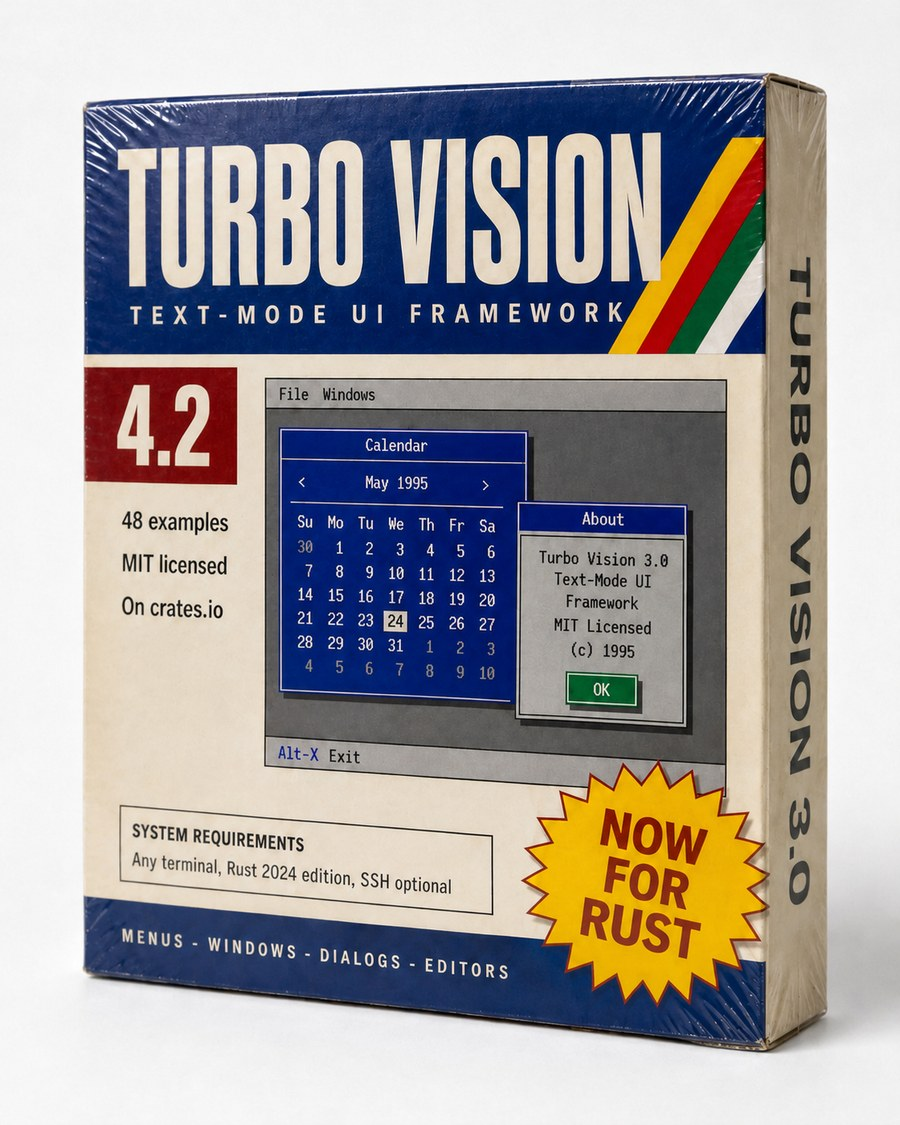
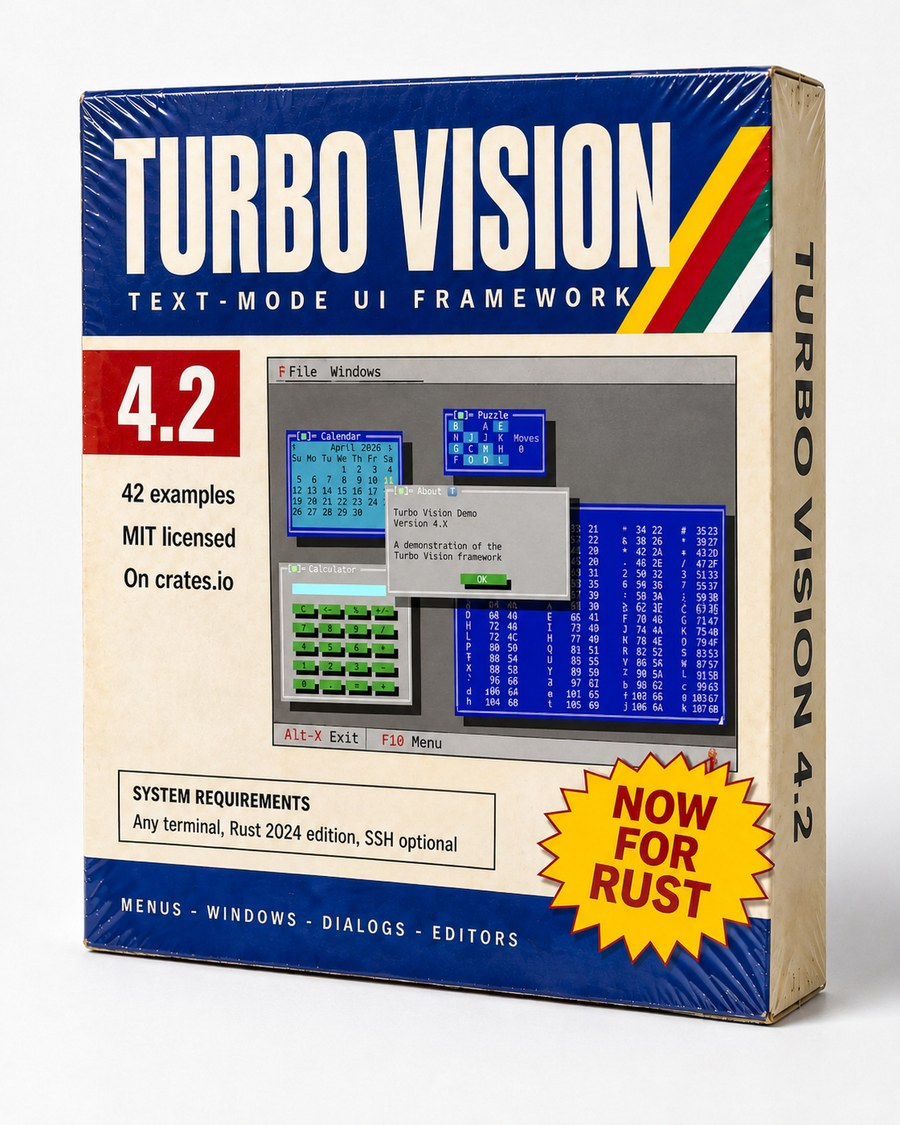
docs(website): a box with 4.2 on the front and spine, and the right example count

diff --git a/website/docs/index.md b/website/docs/index.md
@@ -23,7 +23,7 @@ validators, editors and palettes, drawn in a terminal, on a desktop that still l
      srcset="assets/box-4-2.jpg 900w, assets/box-4-2@2x.jpg 1122w"
      sizes="(max-width: 76em) 20rem, 24rem"
      width="740" height="925" loading="eager" decoding="async"
-     alt="A shrink-wrapped 1990s software box reading Turbo Vision, Text-Mode UI Framework, version 4.2, with 48 examples, MIT licensed, on crates.io, a screenshot of a Calendar window and an About dialog on the cover and a yellow starburst sticker reading Now For Rust">
+     alt="A shrink-wrapped 1990s software box reading Turbo Vision, Text-Mode UI Framework, version 4.2, with 42 examples, MIT licensed, on crates.io, a screenshot of a Calendar, a Puzzle, a Calculator and an ASCII table with an About dialog on top, and a yellow starburst sticker reading Now For Rust">
 </div>
 
 </div>
